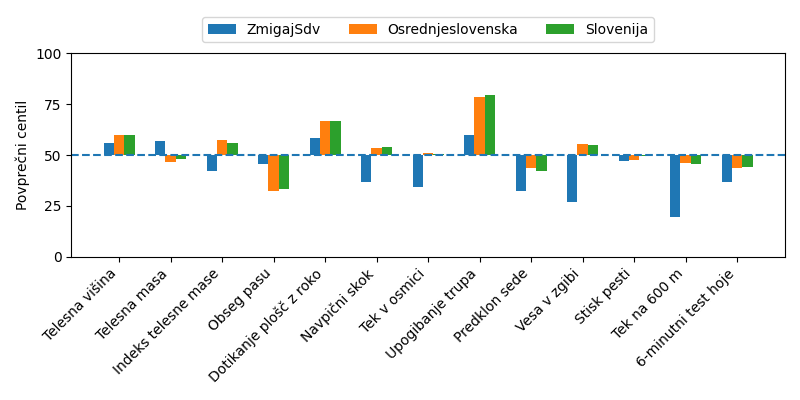
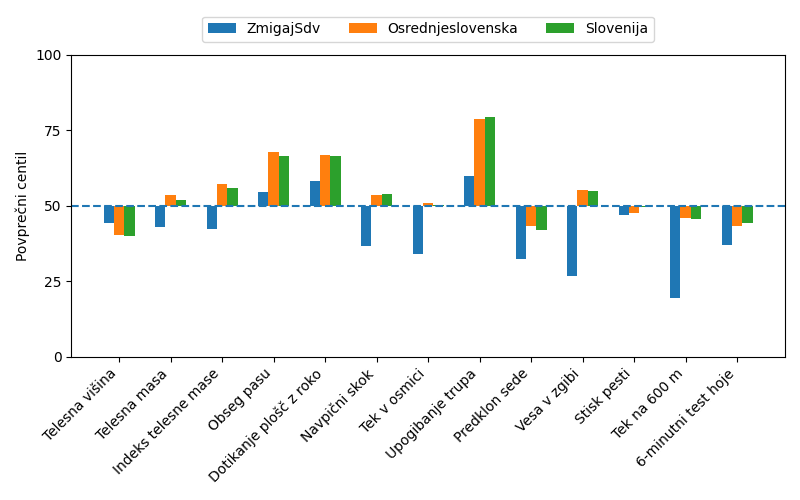
Popravil 2. tabelo, da je nižji rezultat dejansko boljši za določene teste, dodal opombe

diff --git a/rok_koda.py b/rok_koda.py
@@ -30,6 +30,7 @@ df_testi = pd.read_excel("reportOKSanaliza_2.xlsx", sheet_name="Testi")
 
 # slovar: ime testa -> vrstni red
 order_map = dict(zip(df_testi["Ime"], df_testi["Order"]))
+visji_map = dict(zip(df_testi["Ime"], df_testi["VisjiBoljsi"]))
 
 # --- VNOS ANALIZE ---
 analiza_id = input("Vnesi številko analize (Meritev.id): ")
@@ -244,6 +245,15 @@ df_table["Slovenija"] = df_centili[df_centili["Geo_enota"] == "Slovenija"]["Cent
 df_table["Order"] = df_table["Test"].map(order_map)
 df_table = df_table.sort_values("Order")
 df_table = df_table.drop(columns=["Order"])
+def adjust_value(row, col):
+    visji = visji_map.get(row["Test"], 1)  # default = 1 (višje je boljše)
+    if visji == -1:
+        return 100 - row[col]
+    return row[col]
+
+# popravi vse tri stolpce
+for col in ["ZmigajSdv", "Osrednjeslovenska", "Slovenija"]:
+    df_table[col] = df_table.apply(lambda r: adjust_value(r, col), axis=1)
 
 # --- USTVARJANJE DOCX ---
 doc = Document("template.docx")
@@ -270,9 +280,12 @@ doc.add_page_break()
 
 # --- TABELA ---
 doc.add_heading('Povprečni centili po testih', level=2)
+doc.add_paragraph("Pri testih, pri katerih je nižji rezultat boljši (npr. Tek na 600 m) so centili “obrnjeni” (100-centil), tako da v spodnji tabeli višje povprečje vedno pomeni boljši rezultat.")
 table = doc.add_table(rows=1, cols=len(df_table.columns))
-table.style = 'Table Grid'
-table.autofit = False
+table.style = "Table Grid"
+table.autofit = True
+table.allow_autofit = True
+
 
 # Glava
 hdr_cells = table.rows[0].cells
@@ -306,7 +319,8 @@ for cell in table.columns[0].cells:
 doc.add_paragraph("")
 
 # --- GRAF ---
-plt.figure(figsize=(8,4))
+plt.figure(figsize=(8,5))
+
 
 x = df_table["Test"]
 
@@ -408,11 +422,13 @@ regija_mejni = df_plot["Regija_Mejni"]     # Added for clarity
 
 # --- TABELA 2 (Will now match because df_plot is already sorted) ---
 doc.add_page_break()
-doc.add_heading('Delež mejnih in tveganih rezultatov po testih - tabela', level=2)
+doc.add_heading('Delež mejnih in tveganih rezultatov po testih', level=2)
+doc.add_paragraph("Tabela prikazuje delež udeležencev meritev, ki imajo testni dosežek označen kot tvegan (rdeča cona) ali mejen (rumena cona). Delež zelene cone ni prikazan, se pa lahko izračuna kot razlika 100% - Tvegano – Mejno. ")
 
 table2 = doc.add_table(rows=2, cols=7)
 table2.style = 'Table Grid'
-table2.autofit = False
+table2.autofit = True
+table2.allow_autofit = True
 
 # --- PRVA VRSTICA (GLAVNE SKUPINE) ---
 hdr1 = table2.rows[0].cells
@@ -556,13 +572,8 @@ plt.savefig(graf2_path)
 plt.close()
 
 # dodaj v DOCX
-doc.add_page_break()
-doc.add_heading('Delež mejnih in tveganih rezultatov po testih', level=2)
-doc.add_paragraph("Z...ZmigajSdv")
-doc.add_paragraph("R...Regija")
-doc.add_paragraph("S...Slovenija")
 doc.add_picture(graf2_path, width=Inches(6))
-
+doc.add_paragraph("Oznake skupin: Z=ZmigajSdv, R=Regija, S=Slovenija")
 # --- SHRANJEVALNJE DOCX ---
 docx_filename = os.path.join(os.getcwd(), ReportDocName + ".docx")
 doc.save(docx_filename)
